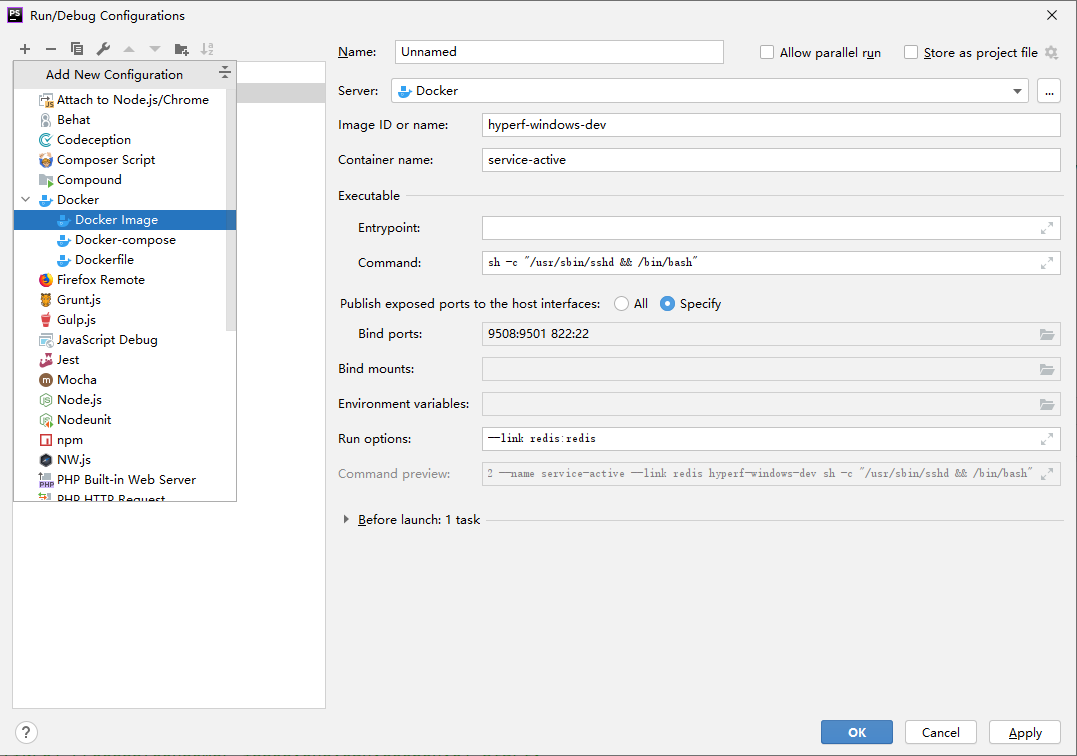
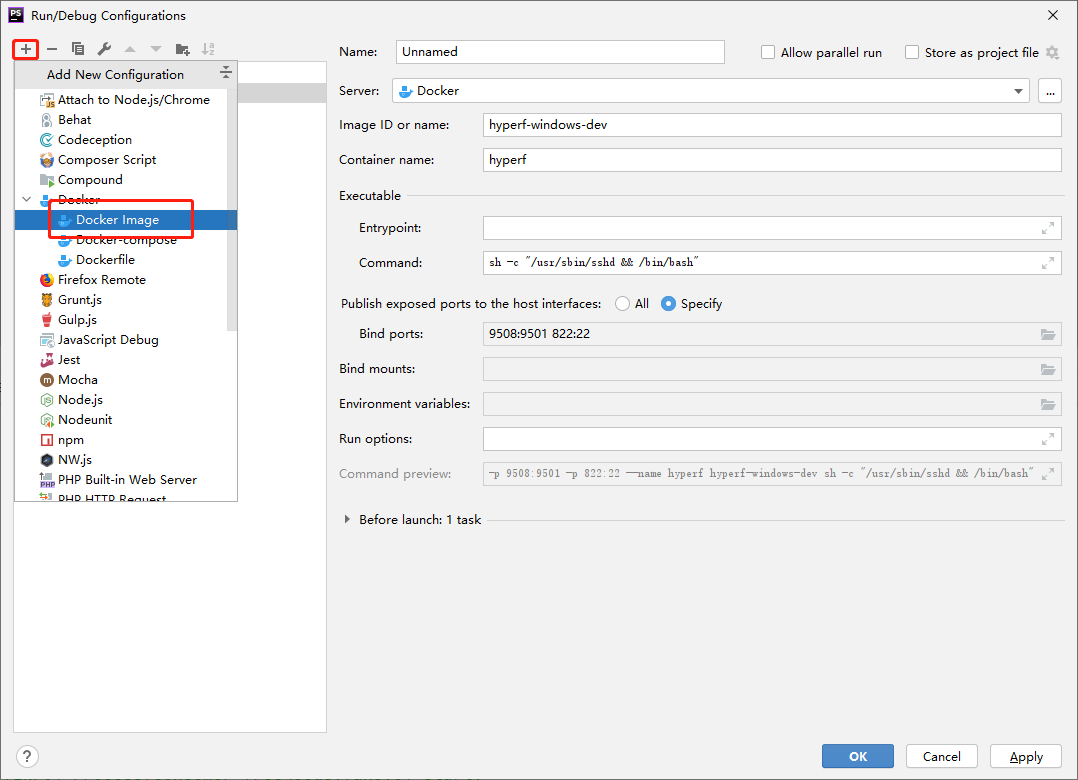
init

diff --git a/README.md b/README.md
@@ -1,21 +1,25 @@
 # hyperf-windows-dev
-windows 下使用docker 挂载磁盘启动Hyperf非常慢, 这里提供一个思路: 不挂载磁盘, 容器内启用sftp 配合ide同步代码 
-- 修改`Dockerfile`里`你的公钥`
+因`Docker` 底层原因, `Windows` / `Mac` 下挂载磁盘启动`Hyperf` 非常慢, 这里提供一个思路: 不挂载磁盘, 容器内部署`SFTP` 配合ide同步代码
+ 
+1. 下载`Dockerfile`, 将`Dockerfile`里`你的公钥` 替换为你的`SSH` 公钥 (例:C:\Users\Administrator\.ssh\id_rsa.pub)
 
-- `docker build -t hyperf-windows-dev .`
+2. 命令行构建镜像 `docker build -t hyperf-windows-dev .`
 
-- `Run/Edit Configurations...` 配置docker, Command:`sh -c "/usr/sbin/sshd && /bin/bash"`, Bind ports 22端口为容器sftp
+3. 以下在`PHPStorm` 你的`Hyperf`项目中
+
+4. 打开菜单`Run/Edit Configurations...` 
+配置`Docker`, `Command`填`sh -c "/usr/sbin/sshd && /bin/bash"`, `Bind ports` 22端口为容器`SFTP`端口(写死), 822为向外暴露端口, 不可重复
  ![avatar](./src/1.png)
 
-- `Shift + F10` 启动容器
+5. `Shift + F10` 启动容器, 留意这一步中`Attached Console` 窗口, 最后一步在这里输入
  
-- `Tools/Deployment/Configurations...` 配置sftp, 填写上一步暴露的22端口和Dockerfile 里的公钥 
+6. `Tools/Deployment/Configurations...` 配置SFTP, 填写上一步暴露的22端口和Dockerfile 里的公钥 
 ![avatar](./src/2.png)
 
-- Devployment path不要选根目录
+7. Devployment path不要选根目录
 ![avatar](./src/4.png)
 
-- 选中根目录, 勾选Automatic Upload, 上传文件到容器
+8. 选中根目录, 勾选Automatic Upload, 上传文件到容器
 ![avatar](./src/3.png)
 
-- 在容器窗口运行`hyperf-watch -c --dir /home`
+9. 在容器窗口运行`hyperf-watch -c --dir /home`
